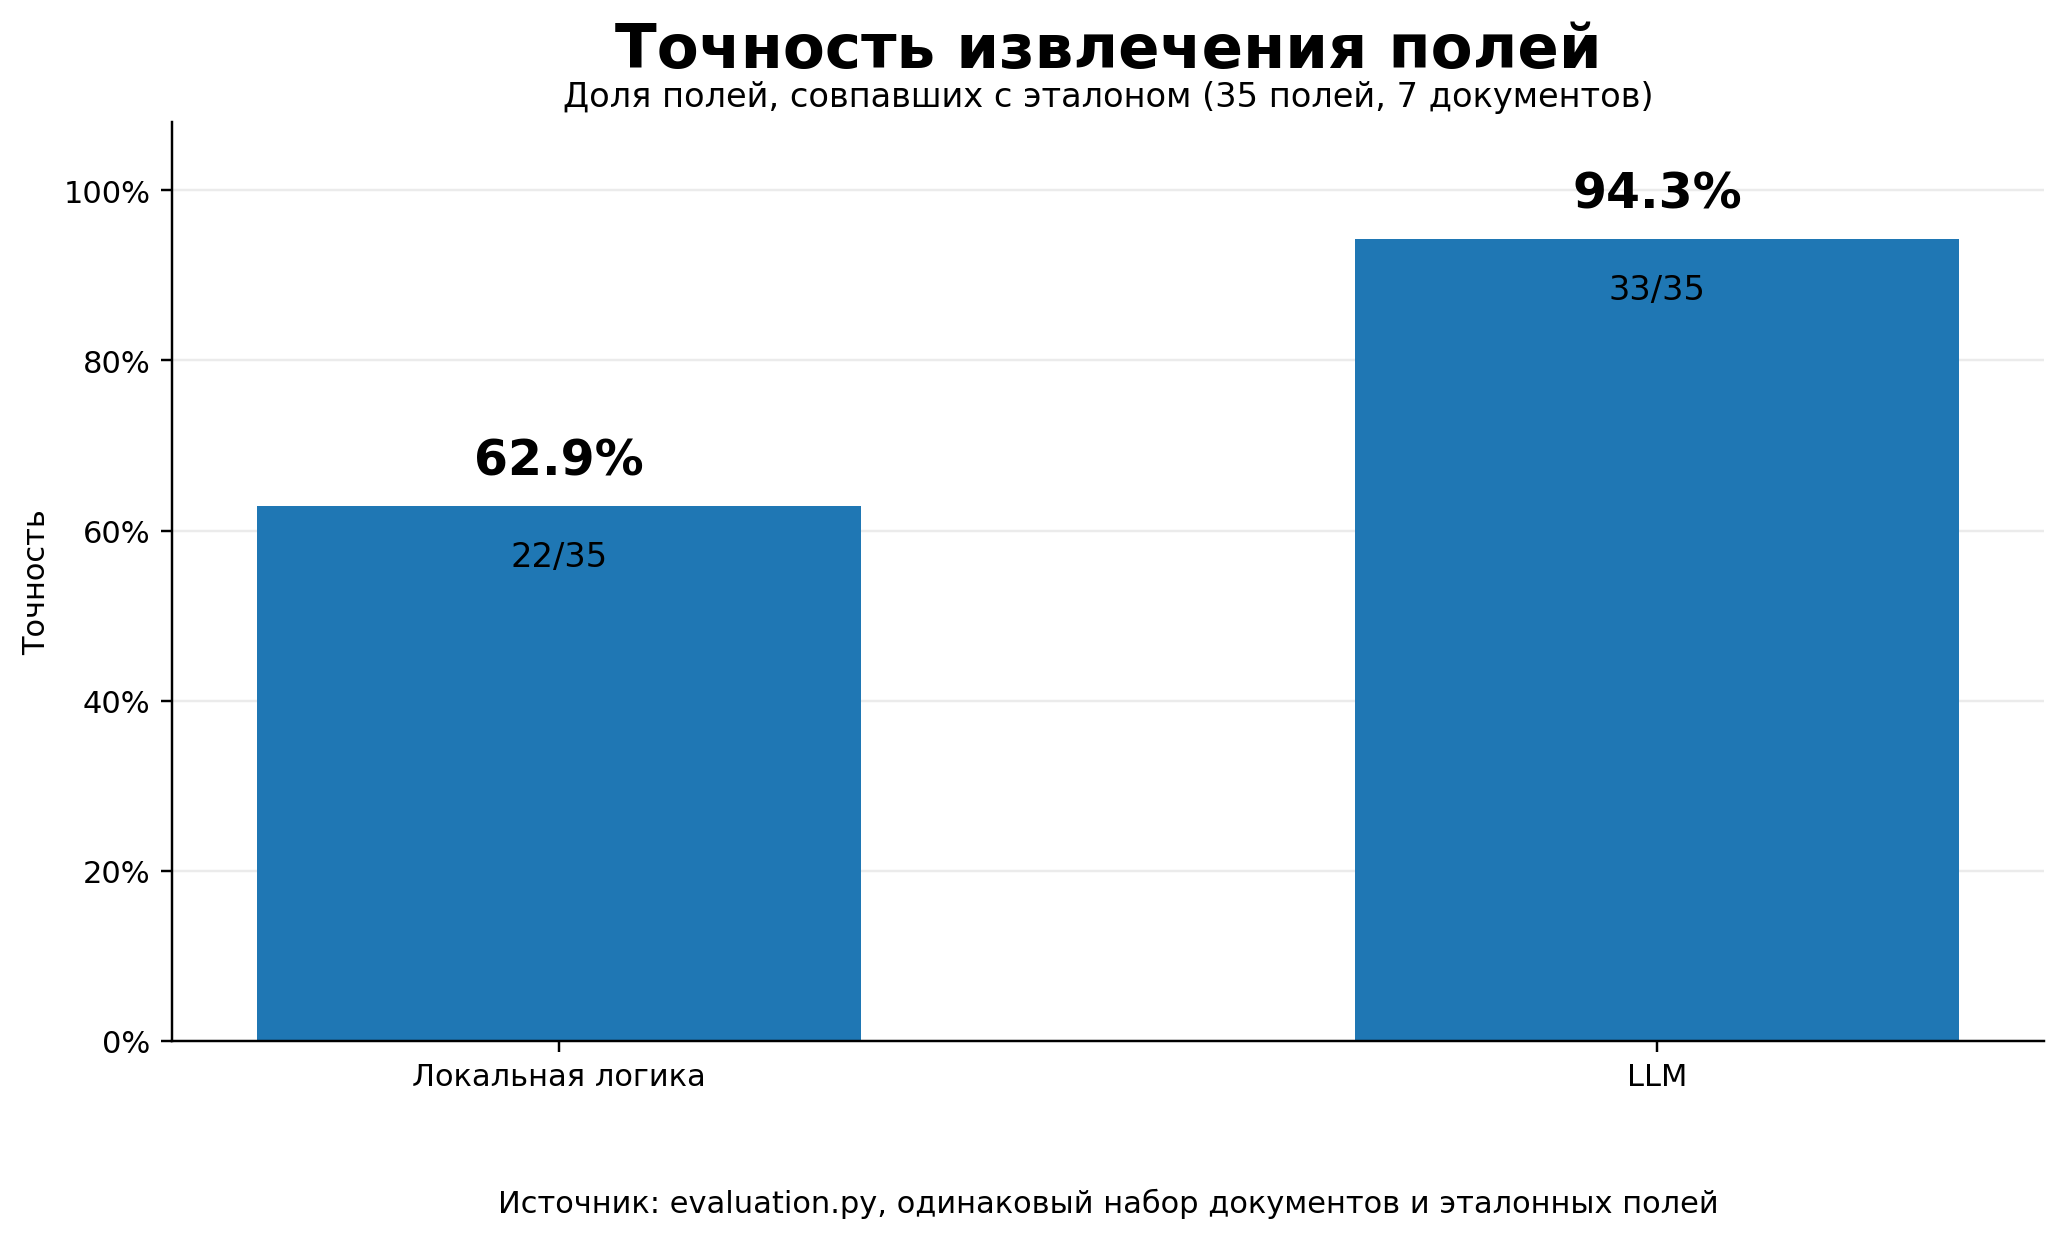
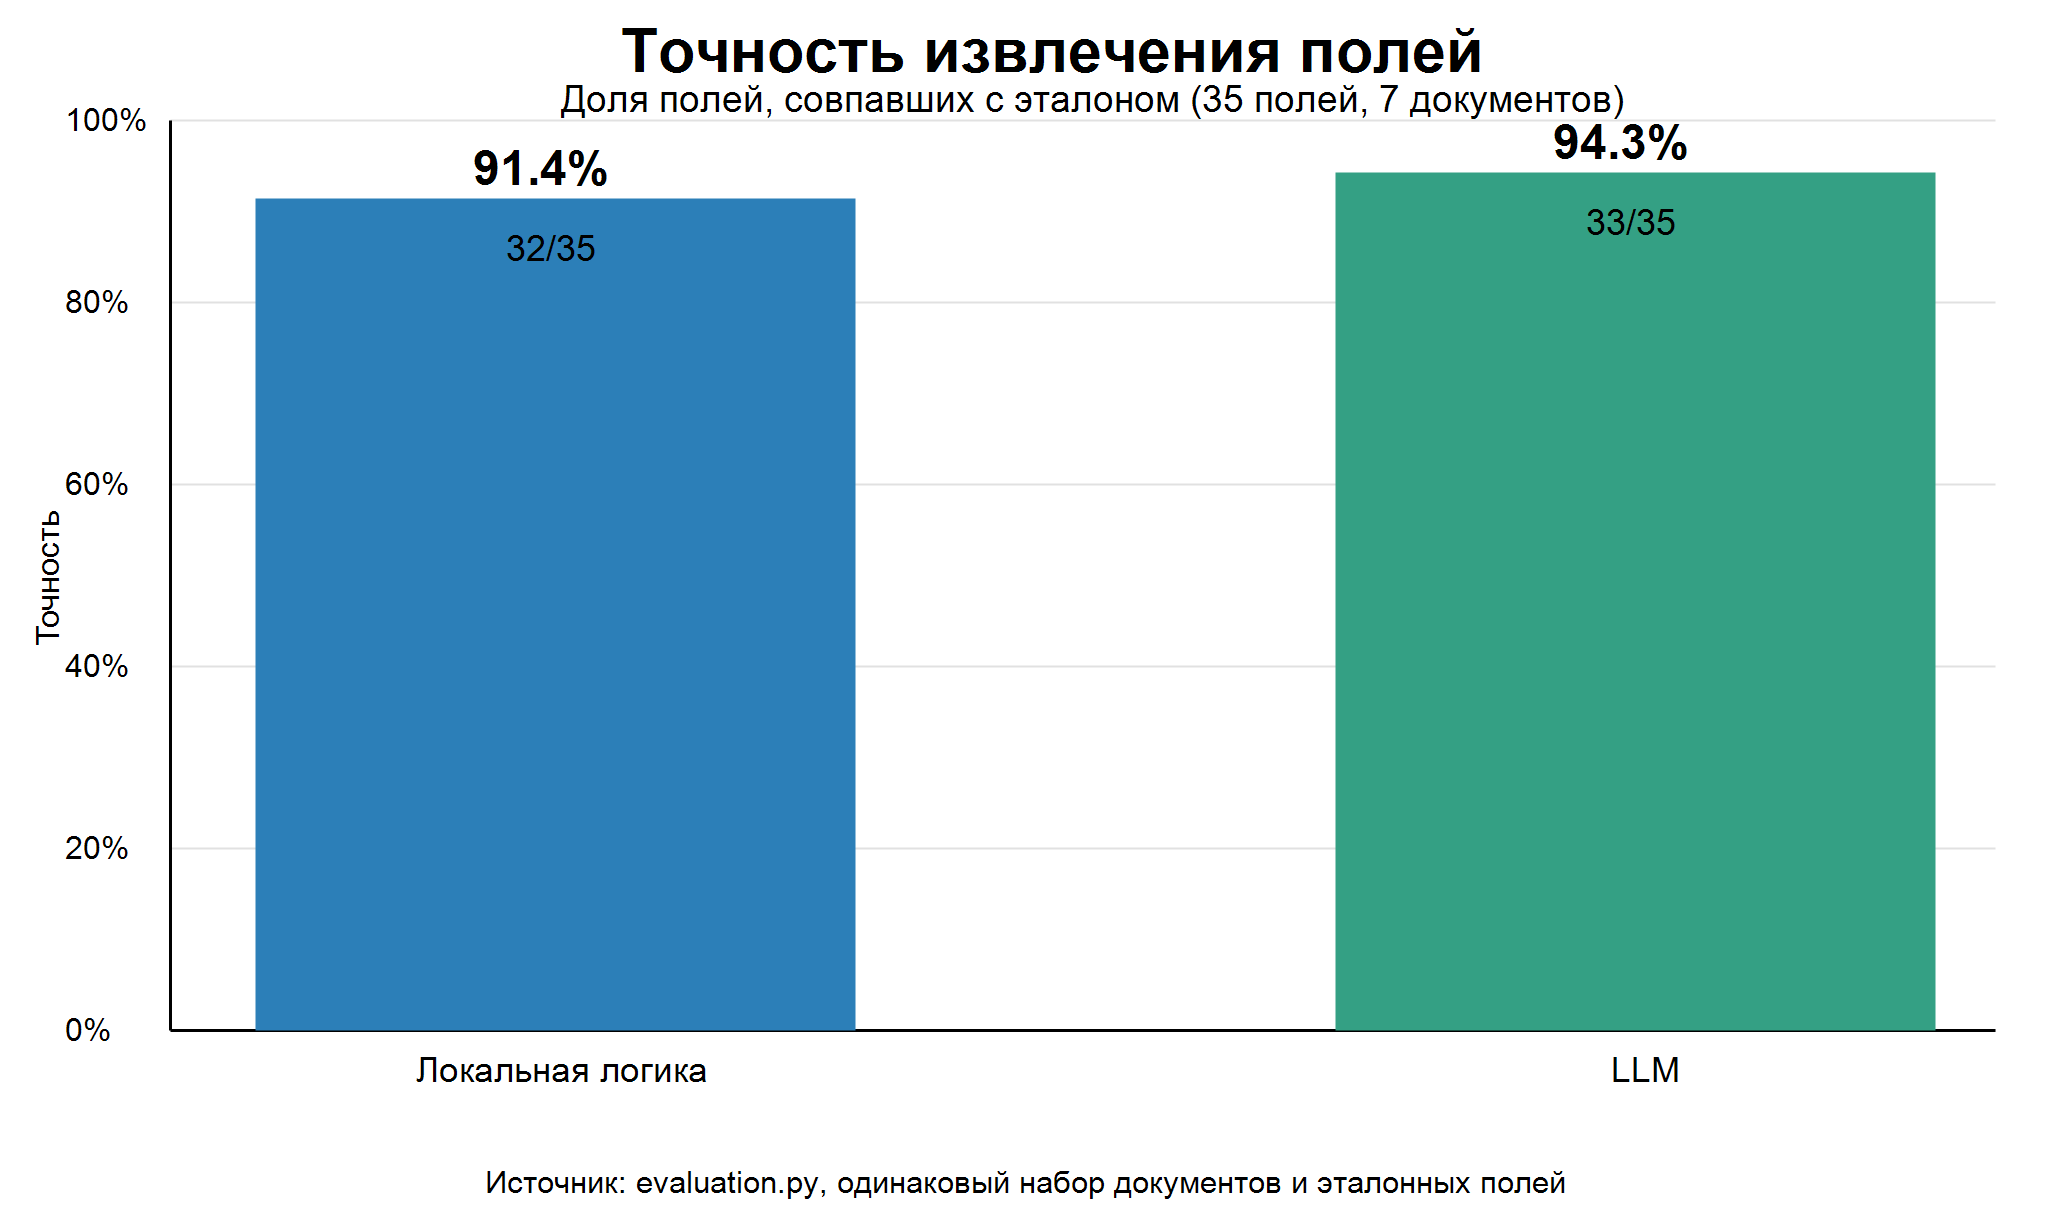
improved regex

diff --git a/src/extraction.py b/src/extraction.py
@@ -51,6 +51,19 @@ MONTHS = {
     "декабря": 12,
 }
 
+OCR_DIGIT_TRANSLATION = str.maketrans(
+    {
+        "O": "0",
+        "o": "0",
+        "О": "0",
+        "о": "0",
+        "I": "1",
+        "l": "1",
+        "|": "1",
+    }
+)
+OCR_DIGIT = r"[0-9OОoоIl]"
+
 
 def clean_text(value: object | None) -> str | None:
     """Убирает лишние пробелы и разделители из строкового значения."""
@@ -62,7 +75,8 @@ def clean_text(value: object | None) -> str | None:
 
 def _plain_number(value: str) -> float | None:
     """Преобразовывает строку с разделителями тысяч и дробной частью в число."""
-    number = re.sub(r"[^\d,.]", "", value.replace("\u00a0", " "))
+    normalized = value.translate(OCR_DIGIT_TRANSLATION).replace("\u00a0", " ")
+    number = re.sub(r"[^\d,.]", "", normalized)
     if not number:
         return None
 
@@ -128,7 +142,7 @@ def normalize_date(value: object | None) -> str | None:
     if value is None:
         return None
 
-    text = str(value).lower().replace("ё", "е")
+    text = str(value).translate(OCR_DIGIT_TRANSLATION).lower().replace("ё", "е")
     iso = re.search(r"\b(\d{4})-(\d{1,2})-(\d{1,2})\b", text)
     if iso:
         year, month, day = (int(part) for part in iso.groups())
@@ -152,8 +166,9 @@ def normalize_date(value: object | None) -> str | None:
 
 
 def normalize_inn(value: object | None) -> str | None:
-    """Вернуть ИНН, если значение содержит ровно 10 или 12 цифр."""
-    digits = re.sub(r"\D", "", str(value or ""))
+    """Вернуть ИНН из 10/12 цифр с учётом частых OCR-подмен."""
+    normalized = str(value or "").translate(OCR_DIGIT_TRANSLATION)
+    digits = re.sub(r"\D", "", normalized)
     return digits if len(digits) in (10, 12) else None
 
 
@@ -176,14 +191,62 @@ def llm_extract(text: str) -> dict[str, object | None] | None:
 
 
 MONEY_PATTERN = (
-    r"(?:\d{1,3}(?:[ \u00a0.,]\d{3})+|\d+)"
-    r"(?:[,.]\d{1,2})?\s*(?:руб\.?|рублей|₽|RUB)?"
-    r"(?:\s*\d{1,2}\s*коп\.?)?"
+    rf"(?:{OCR_DIGIT}{{1,3}}(?:[ \u00a0.,]{OCR_DIGIT}{{3}})+|{OCR_DIGIT}+)"
+    rf"(?:[,.]{OCR_DIGIT}{{1,2}})?\s*(?:руб\.?|рублей|₽|RUB)?"
+    rf"(?:\s*{OCR_DIGIT}{{1,2}}\s*коп\.?)?"
 )
 DATE_PATTERN = (
-    r"\d{1,2}[./-]\d{1,2}[./-]\d{2,4}|"
-    rf"\d{{1,2}}\s+(?:{'|'.join(MONTHS)})\s+\d{{2,4}}\s*(?:г\.?)?"
+    rf"{OCR_DIGIT}{{1,2}}[./-]{OCR_DIGIT}{{1,2}}[./-]{OCR_DIGIT}{{2,4}}|"
+    rf"{OCR_DIGIT}{{1,2}}\s+(?:{'|'.join(MONTHS)})\s+"
+    rf"{OCR_DIGIT}{{2,4}}\s*(?:г\.?)?"
 )
+
+AMOUNT_PATTERNS = (
+    rf"(?:сумма(?:\s+к\s+оплате)?|[cс][yу]мм[aа]|к\s+оплате|"
+    rf"итого\s+(?:к\s+оплате|с\s+ндс|стоимость\s+(?:работ|товаров?|услуг)))"
+    rf"\s*:?[ \t]*({MONEY_PATTERN})",
+    rf"общая\s+стоимость[^\n.:]{{0,100}}?\s+составляет\s*:?[ \t\n]*"
+    rf"({MONEY_PATTERN})",
+    rf"стоимость\s+(?:работ|товаров?|услуг)[^\n.:]{{0,60}}?\s+составляет"
+    rf"\s*:?[ \t\n]*({MONEY_PATTERN})",
+    rf"итого(?!\s+без\s+ндс)\s*:?[ \t]*({MONEY_PATTERN})",
+    rf"всего[^\n]{{0,50}}?\bна\s+сумму\s*:?[ \t]*({MONEY_PATTERN})",
+)
+
+
+def _extract_subject(text: str) -> str | None:
+    """Найти предмет в подписи, первой строке таблицы или типовой формулировке."""
+    labeled = re.search(
+        r"(?im)^\s*(?:предмет(?:\s+оплаты)?|назначение\s+платежа|"
+        r"наименование(?:\s+(?:товара|работы|услуги))?)\s*:\s*(.+)$",
+        text,
+    )
+    if labeled:
+        return clean_text(labeled.group(1))
+
+    table_row = re.search(r"(?m)^\|\s*1\s*\|\s*([^|\n]+?)\s*\|", text)
+    if table_row:
+        return clean_text(table_row.group(1))
+
+    list_intro = re.search(
+        r"(?i)следующ\w*\s+(?:работ\w*|товар\w*|услуг\w*)\s*:", text
+    )
+    if list_intro:
+        first_item = re.search(
+            r"(?m)^\s*1[.)]\s+(.+?)(?=\s+[—–-]\s*|$)",
+            text[list_intro.end() :],
+        )
+        if first_item:
+            return clean_text(first_item.group(1))
+
+    contractual = re.search(
+        r"(?is)\b(?:поставщик|продавец|исполнитель|подрядчик)\s+обязуется\s+"
+        r"(?:передать|поставить|выполнить|оказать)"
+        r"(?:\s+в\s+собственность\s+\S+)?\s+(.+?)"
+        r"(?=\s*\(|,|;|\s+а\s+(?:покупатель|заказчик)\b|\n\s*\n)",
+        text,
+    )
+    return clean_text(contractual.group(1)) if contractual else None
 
 
 def fallback_extract(text: str) -> dict[str, object | None]:
@@ -191,13 +254,17 @@ def fallback_extract(text: str) -> dict[str, object | None]:
     if not text or not text.strip():
         return EMPTY_RESULT.copy()
 
-    amount_match = re.search(
-        rf"(?i)(?:сумма(?:\s+к\s+оплате)?|итого(?:\s+к\s+оплате)?|к\s+оплате)"
-        rf"\s*:?[ \t]*({MONEY_PATTERN})",
-        text,
+    amount_match = next(
+        (
+            match
+            for pattern in AMOUNT_PATTERNS
+            if (match := re.search(pattern, text, re.IGNORECASE))
+        ),
+        None,
     )
     inn_match = re.search(
-        r"(?i)\bИНН(?:/КПП)?\s*:?[ \t]*(\d{10}|\d{12})\b", text
+        rf"(?i)\bИНН(?:/КПП)?\s*:?[ \t]*({OCR_DIGIT}{{10}}|{OCR_DIGIT}{{12}})\b",
+        text,
     )
     date_match = re.search(DATE_PATTERN, text, re.IGNORECASE)
     contractor_match = re.search(
@@ -205,10 +272,7 @@ def fallback_extract(text: str) -> dict[str, object | None]:
         r"((?:ООО|АО|ПАО|ЗАО|ИП)\s+(?:[«\"].+?[»\"]|[^,\n;]+))",
         text,
     )
-    subject_match = re.search(
-        r"(?im)^\s*(?:предмет(?:\s+оплаты)?|назначение платежа)\s*:\s*(.+)$",
-        text,
-    )
+    subject = _extract_subject(text)
 
     return {
         "amount": normalize_amount(amount_match.group(1)) if amount_match else None,
@@ -217,7 +281,7 @@ def fallback_extract(text: str) -> dict[str, object | None]:
         "contractor": clean_text(contractor_match.group(1))
         if contractor_match
         else None,
-        "subject": clean_text(subject_match.group(1)) if subject_match else None,
+        "subject": subject,
     }
 
 

diff --git a/tests/test_extraction.py b/tests/test_extraction.py
@@ -24,6 +24,47 @@ def test_required_missing_amount_example(offline: None) -> None:
 
 
 @pytest.mark.parametrize(
+    ("text", "expected"),
+    [
+        ("Общая стоимость услуг по договору составляет 420 000 рублей", 420_000.0),
+        ("Итого без НДС: 100 000 руб.\nИтого с НДС: 120 000 руб.", 120_000.0),
+        ("Итого стоимость работ: 75 500,50 руб.", 75_500.5),
+        ("| Наименование | Сумма |\nИтого: 12 300 руб.", 12_300.0),
+    ],
+)
+def test_fallback_recognizes_common_total_labels(
+    offline: None,
+    text: str,
+    expected: float,
+) -> None:
+    assert extraction.extract(text)["amount"] == expected
+
+
+def test_fallback_handles_common_ocr_digit_substitutions(offline: None) -> None:
+    result = extraction.extract(
+        "Cyммa: l 25O OOO pyб\nДата: O1.O3.2O25\nИНН 77O1234567"
+    )
+
+    assert result["amount"] == 1_250_000.0
+    assert result["date"] == "2025-03-01"
+    assert result["inn"] == "7701234567"
+
+
+def test_fallback_extracts_subject_from_first_table_row(offline: None) -> None:
+    text = """| № | Товар / услуга                    | Количество |
+| 1 | Техническое обслуживание оборудования | 1 |"""
+    assert extraction.extract(text)["subject"] == "Техническое обслуживание оборудования"
+
+
+def test_fallback_extracts_subject_from_contract_clause(offline: None) -> None:
+    text = (
+        "Поставщик обязуется передать в собственность Покупателя запасные части "
+        "для трактора, а Покупатель обязуется принять товар."
+    )
+    assert extraction.extract(text)["subject"] == "запасные части для трактора"
+
+
[email redacted](
     ("raw", "expected"),
     [
         ("1 250 000,00 руб.", 1_250_000.0),

diff --git a/RESULTS.md b/RESULTS.md
@@ -1,10 +1,10 @@
 # Результаты и подход
 - Решение построено как гибрид: простые случаи обрабатываются локально, а LLM используется только там, где помогает понять свободный текст. Это делает работу быстрее и предсказуемее, а при недоступности Hugging Face проект продолжает работать на резервной логике.
 - `extract()` сначала просит LLM вернуть пять полей в JSON: сумму, дату, ИНН, контрагента и предмет документа. Затем значения проверяются и нормализуются локально, поэтому формат результата не зависит от формулировки ответа модели.
-- Резервное извлечение намеренно покрывает только явно подписанные реквизиты и не пытается полностью заменить LLM. Иначе было бы легко подогнать регулярные выражения под тестовые документы, но в этом нету смысла.
+- Резервное извлечение покрывает типовые подписи, товарные таблицы, договорные формулировки и частые OCR-подмены в числах; на текущем наборе оно определяет 32 из 35 полей.
 - При проверке извлечения с LLM корректно определены 33 из 35 полей.
 - `classify()` работает без LLM: взвешенные текстовые признаки определяют тип документа, близкие результаты превращаются в `unknown`. Порог `MIN_MARGIN = 1.0` выбран как компромисс между числом ручных проверок и риском уверенной ошибки;
 - `check_subject()` решает очевидные PASS/FAIL локально и обращается к LLM только для неоднозначных расходов. Все 14 однозначных предметов определены правильно
 - Полный отчёт сформирован без ошибок провайдера; все 6 обязательных примеров из исходного задания обработаны правильно.
 - Unit-тесты не используют сеть: ответы провайдера заменены mock-объектами; текущий результат - 55 пройденных тестов.
-- Главные ограничения - зависимость качества от OCR и LLM, резервная логика не способна покрыть большинство тестов, в отличии от LLM.
+- Главные ограничения — суммы, записанные полностью словами, и сильно повреждённый OCR-текст без устойчивых подписей полей.

diff --git a/README.md b/README.md
@@ -99,7 +99,7 @@ python -m evaluation --report all
 4. PASS/FAIL/EDGE для предметов оплаты.
 
 Валидация extraction показывает совпадения по каждому полю и отдельную таблицу
-ошибок. На текущем датасете получено `33/35` корректных полей с LLM и `22/35`
+ошибок. На текущем датасете получено `33/35` корректных полей с LLM и `32/35`
 на локальной логике. Классификация определила `7/7` документов.
 
 ## 6. График и результаты работы